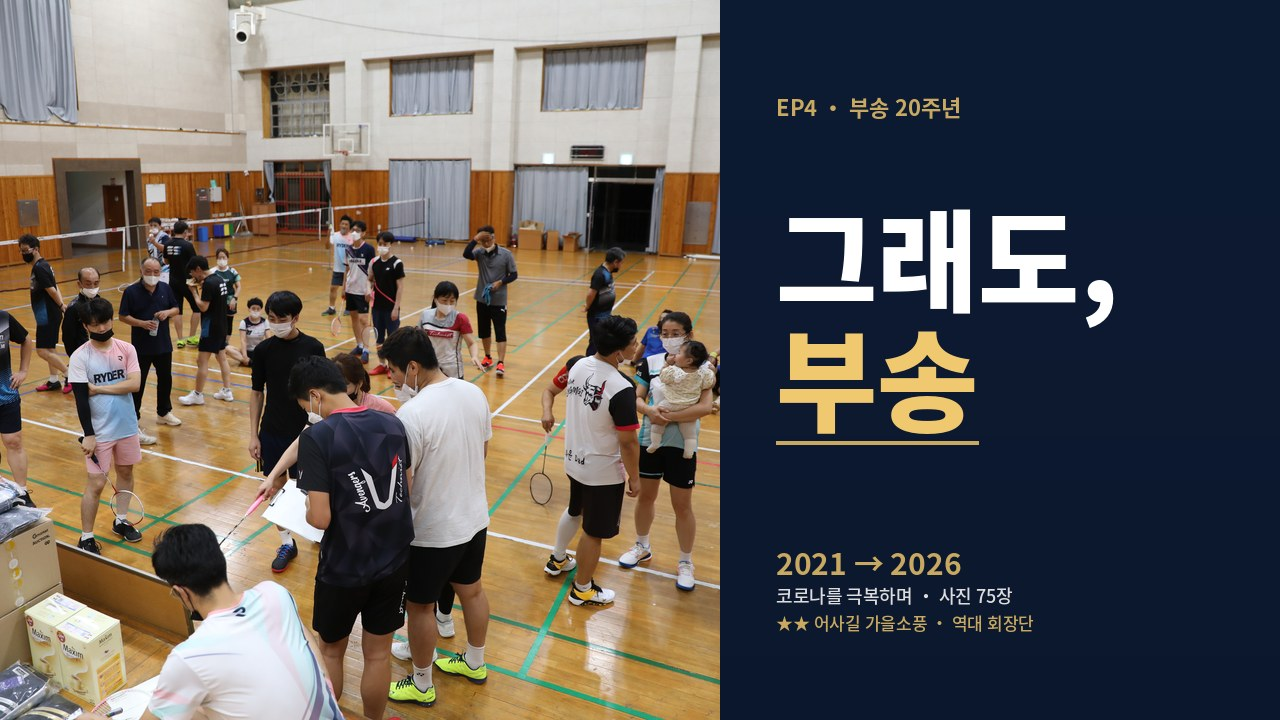
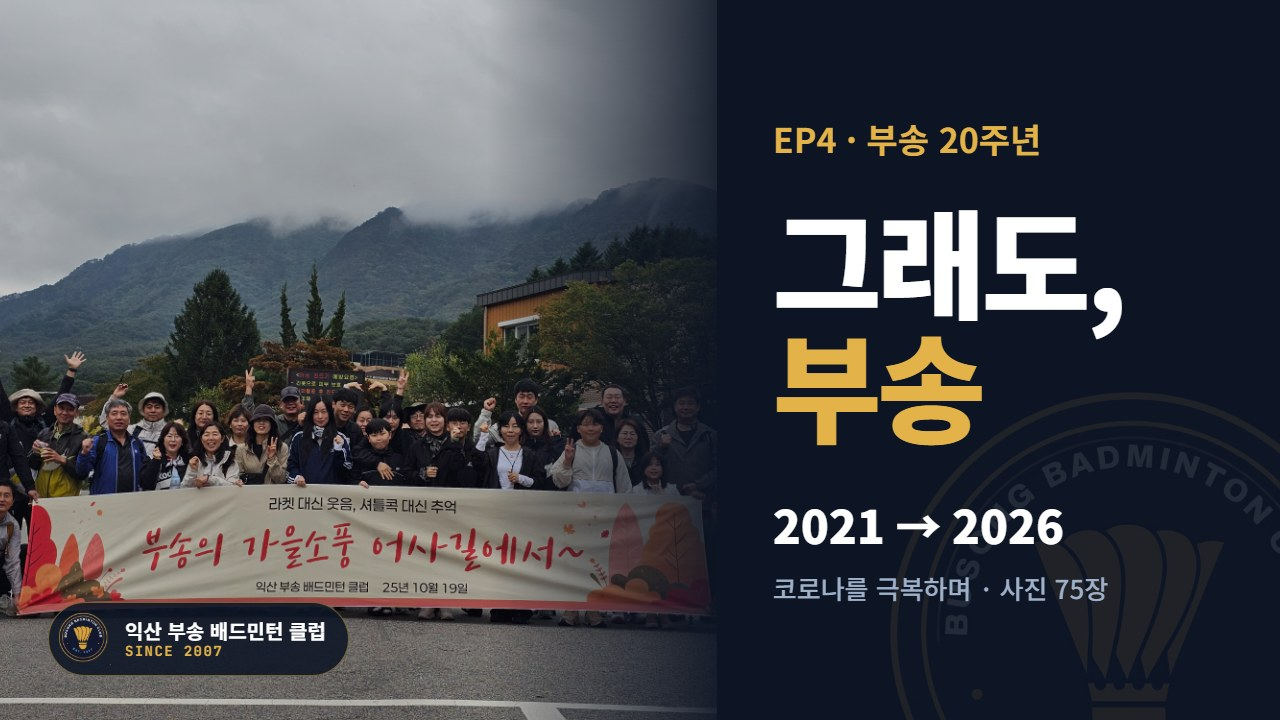
Add files via upload

diff --git a/index.html b/index.html
@@ -8,7 +8,7 @@
 <meta property="og:type" content="article">
 <meta property="og:title" content="부송 20주년 EP4 「그래도, 부송」 — 75장의 기록">
 <meta property="og:description" content="2021~2026 사진 75장 + 20주년 메인 영상까지 — EP4 BGM과 함께 시기별로 정리된 사진 아카이브.">
-<meta property="og:image" content="./EP4_thumbnail.jpg">
+<meta property="og:image" content="https://manminkim-eng.github.io/Busong-Club-20th-Ep04/EP4_thumbnail.jpg">
 <meta property="og:image:width" content="1280">
 <meta property="og:image:height" content="720">
 <meta property="og:image:alt" content="부송 20주년 EP4 사진 아카이브 — 75장의 기록">
@@ -17,9 +17,12 @@
 <meta name="twitter:card" content="summary_large_image">
 <meta name="twitter:title" content="부송 20주년 EP4 「그래도, 부송」 — 75장의 기록">
 <meta name="twitter:description" content="2021~2026 사진 75장 + 20주년 메인 영상까지 — EP4 BGM과 함께.">
-<meta name="twitter:image" content="./EP4_thumbnail.jpg">
+<meta name="twitter:image" content="https://manminkim-eng.github.io/Busong-Club-20th-Ep04/EP4_thumbnail.jpg">
 <meta name="theme-color" content="#0D1B33">
-<meta name="thumbnail" content="./EP4_thumbnail.jpg">
+<link rel="icon" href="assets/favicon.ico" sizes="any">
+<link rel="icon" type="image/png" sizes="192x192" href="assets/icon-192.png">
+<link rel="apple-touch-icon" href="assets/apple-touch-icon.png">
+<meta name="thumbnail" content="https://manminkim-eng.github.io/Busong-Club-20th-Ep04/EP4_thumbnail.jpg">
 <link rel="preconnect" href="https://fonts.googleapis.com">
 <link rel="preconnect" href="https://fonts.gstatic.com" crossorigin>
 <link href="https://fonts.googleapis.com/css2?family=Noto+Serif+KR:wght@400;700;900&display=swap" rel="stylesheet">
@@ -42,6 +45,8 @@
   .hero::before{content:'';position:absolute;inset:0;background:radial-gradient(circle at 50% 30%, rgba(201,169,97,.08) 0%, transparent 60%);pointer-events:none;}
   .hero::after{content:'';position:absolute;inset:0;background-image:linear-gradient(transparent 95%, rgba(201,169,97,.03) 95%),linear-gradient(90deg, transparent 95%, rgba(201,169,97,.03) 95%);background-size:80px 80px;pointer-events:none;}
   .hero > *{position:relative;z-index:1}
+.hero-emblem{display:block;width:136px;height:136px;margin:0 auto 24px}
+.hero-watermark{position:absolute;right:-64px;bottom:-84px;width:320px;height:320px;opacity:.10;z-index:0;pointer-events:none;user-select:none}
   .hero-label{display:inline-block;border:2px solid var(--gold);color:var(--gold);padding:6px 18px;font-size:13px;letter-spacing:0.15em;font-weight:700;margin-bottom:28px;}
   .hero-title{font-family:var(--serif);font-size:clamp(44px, 8vw, 88px);font-weight:900;line-height:1.05;margin-bottom:8px;color:var(--white);letter-spacing:-0.02em;}
   .hero-title .gold{color:var(--gold-bright)}
@@ -176,7 +181,7 @@
   .lightbox-prev{left:20px}
   .lightbox-next{right:20px}
   @media (max-width:768px){.chapter{grid-template-columns:1fr;gap:20px;margin-bottom:48px;}.chapter-meta{position:static;padding:16px 0 16px 18px;}.chapter-meta .ch-year{font-size:30px}}
-  @media (max-width:640px){.hero{padding:60px 20px 40px}.hero-meta span{display:block;margin:4px 0}.bgm-bar{padding:10px 14px;gap:10px}.bgm-status{font-size:11px}.bgm-indicator{top:70px;right:12px;padding:7px 12px 7px 10px;font-size:12px}.prologue{padding:60px 20px}.prologue-card{padding:32px 20px}.story-wrap{padding:60px 16px}.epilogue{padding:60px 20px}.youtube-cta,.main-video-cta{padding:60px 16px}.main-video-chapters{padding:18px 20px}.main-video-chapters li{font-size:13px;gap:10px}.main-video-btn{padding:16px 32px;font-size:15px}.ep-nav-link{padding:10px 16px;font-size:13px}.lightbox-nav{width:40px;height:40px;font-size:18px}}
+  @media (max-width:640px){.hero{padding:60px 20px 40px}.hero-emblem{width:98px;height:98px;margin-bottom:20px}.hero-watermark{right:-70px;bottom:-70px;width:230px;height:230px;opacity:.09}.hero-meta span{display:block;margin:4px 0}.bgm-bar{padding:10px 14px;gap:10px}.bgm-status{font-size:11px}.bgm-indicator{top:70px;right:12px;padding:7px 12px 7px 10px;font-size:12px}.prologue{padding:60px 20px}.prologue-card{padding:32px 20px}.story-wrap{padding:60px 16px}.epilogue{padding:60px 20px}.youtube-cta,.main-video-cta{padding:60px 16px}.main-video-chapters{padding:18px 20px}.main-video-chapters li{font-size:13px;gap:10px}.main-video-btn{padding:16px 32px;font-size:15px}.ep-nav-link{padding:10px 16px;font-size:13px}.lightbox-nav{width:40px;height:40px;font-size:18px}}
 </style>
 </head>
 <body>
@@ -205,6 +210,8 @@
 </div>
 
 <header class="hero">
+  <img class="hero-watermark" src="assets/emblem-open.png" alt="" aria-hidden="true">
+  <img class="hero-emblem" src="assets/emblem-open.png" alt="익산 부송 배드민턴 클럽 엠블럼">
   <div class="hero-label">SINCE 2007 · 20주년</div>
   <h1 class="hero-title">
     그래도,<br>
